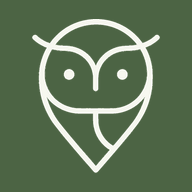
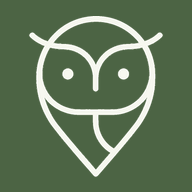
Auto-commit: Claude Code session changes

diff --git a/client/index.html b/client/index.html
@@ -2,10 +2,10 @@
 <html lang="en">
   <head>
     <meta charset="UTF-8" />
-    <link rel="icon" type="image/x-icon" href="/favicon.ico?v=5" />
-    <link rel="icon" type="image/png" sizes="32x32" href="/favicon-32x32.png?v=5" />
-    <link rel="icon" type="image/png" sizes="16x16" href="/favicon-16x16.png?v=5" />
-    <link rel="apple-touch-icon" sizes="180x180" href="/apple-touch-icon.png?v=5" />
+    <link rel="icon" type="image/x-icon" href="/favicon.ico?v=6" />
+    <link rel="icon" type="image/png" sizes="32x32" href="/favicon-32x32.png?v=6" />
+    <link rel="icon" type="image/png" sizes="16x16" href="/favicon-16x16.png?v=6" />
+    <link rel="apple-touch-icon" sizes="180x180" href="/apple-touch-icon.png?v=6" />
     <link rel="manifest" href="/manifest.webmanifest" />
     <meta name="theme-color" content="#4C6444" />
     <meta name="viewport" content="width=device-width, initial-scale=1.0" />
